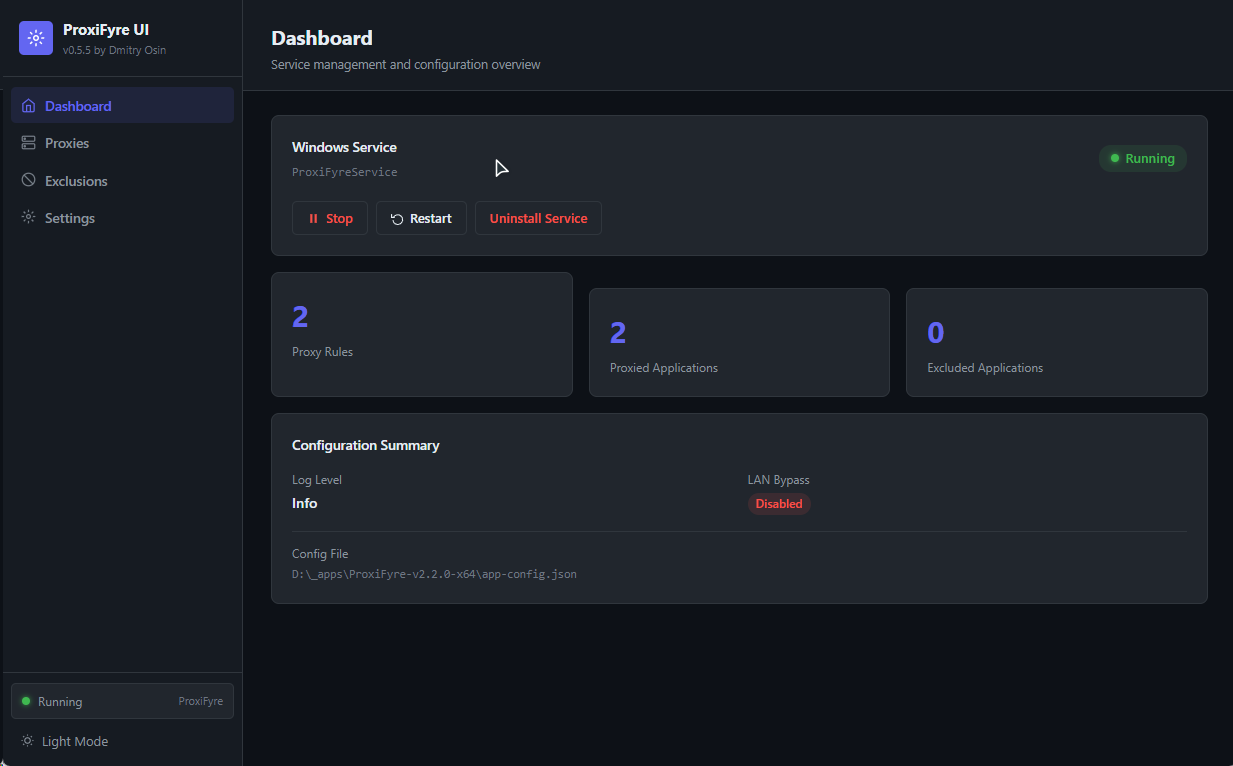
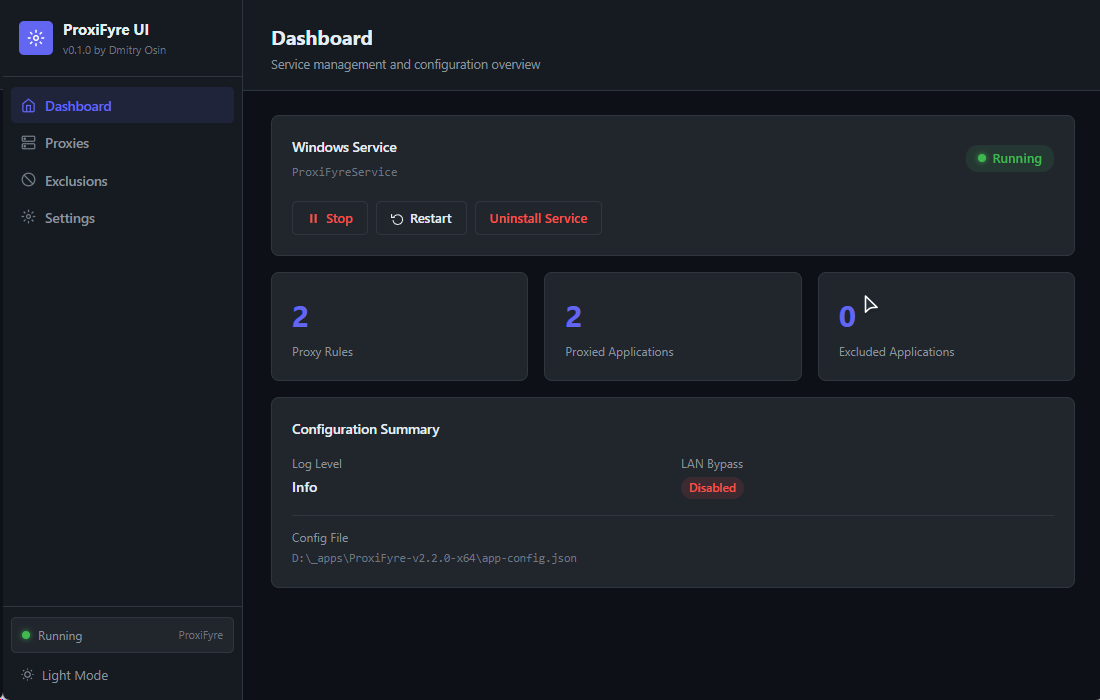
[~] fix card height style

diff --git a/src/app.css b/src/app.css
@@ -590,6 +590,8 @@ html, body {
 /* ── Grid / flex utilities ───────────────────────────────────────────────── */
 .grid-2 { display: grid; grid-template-columns: 1fr 1fr; gap: 16px; }
 .grid-3 { display: grid; grid-template-columns: repeat(3, 1fr); gap: 16px; }
+.grid-2 > .card + .card,
+.grid-3 > .card + .card { margin-top: 0; }
 .flex   { display: flex; }
 .flex-col { flex-direction: column; }
 .items-center { align-items: center; }
